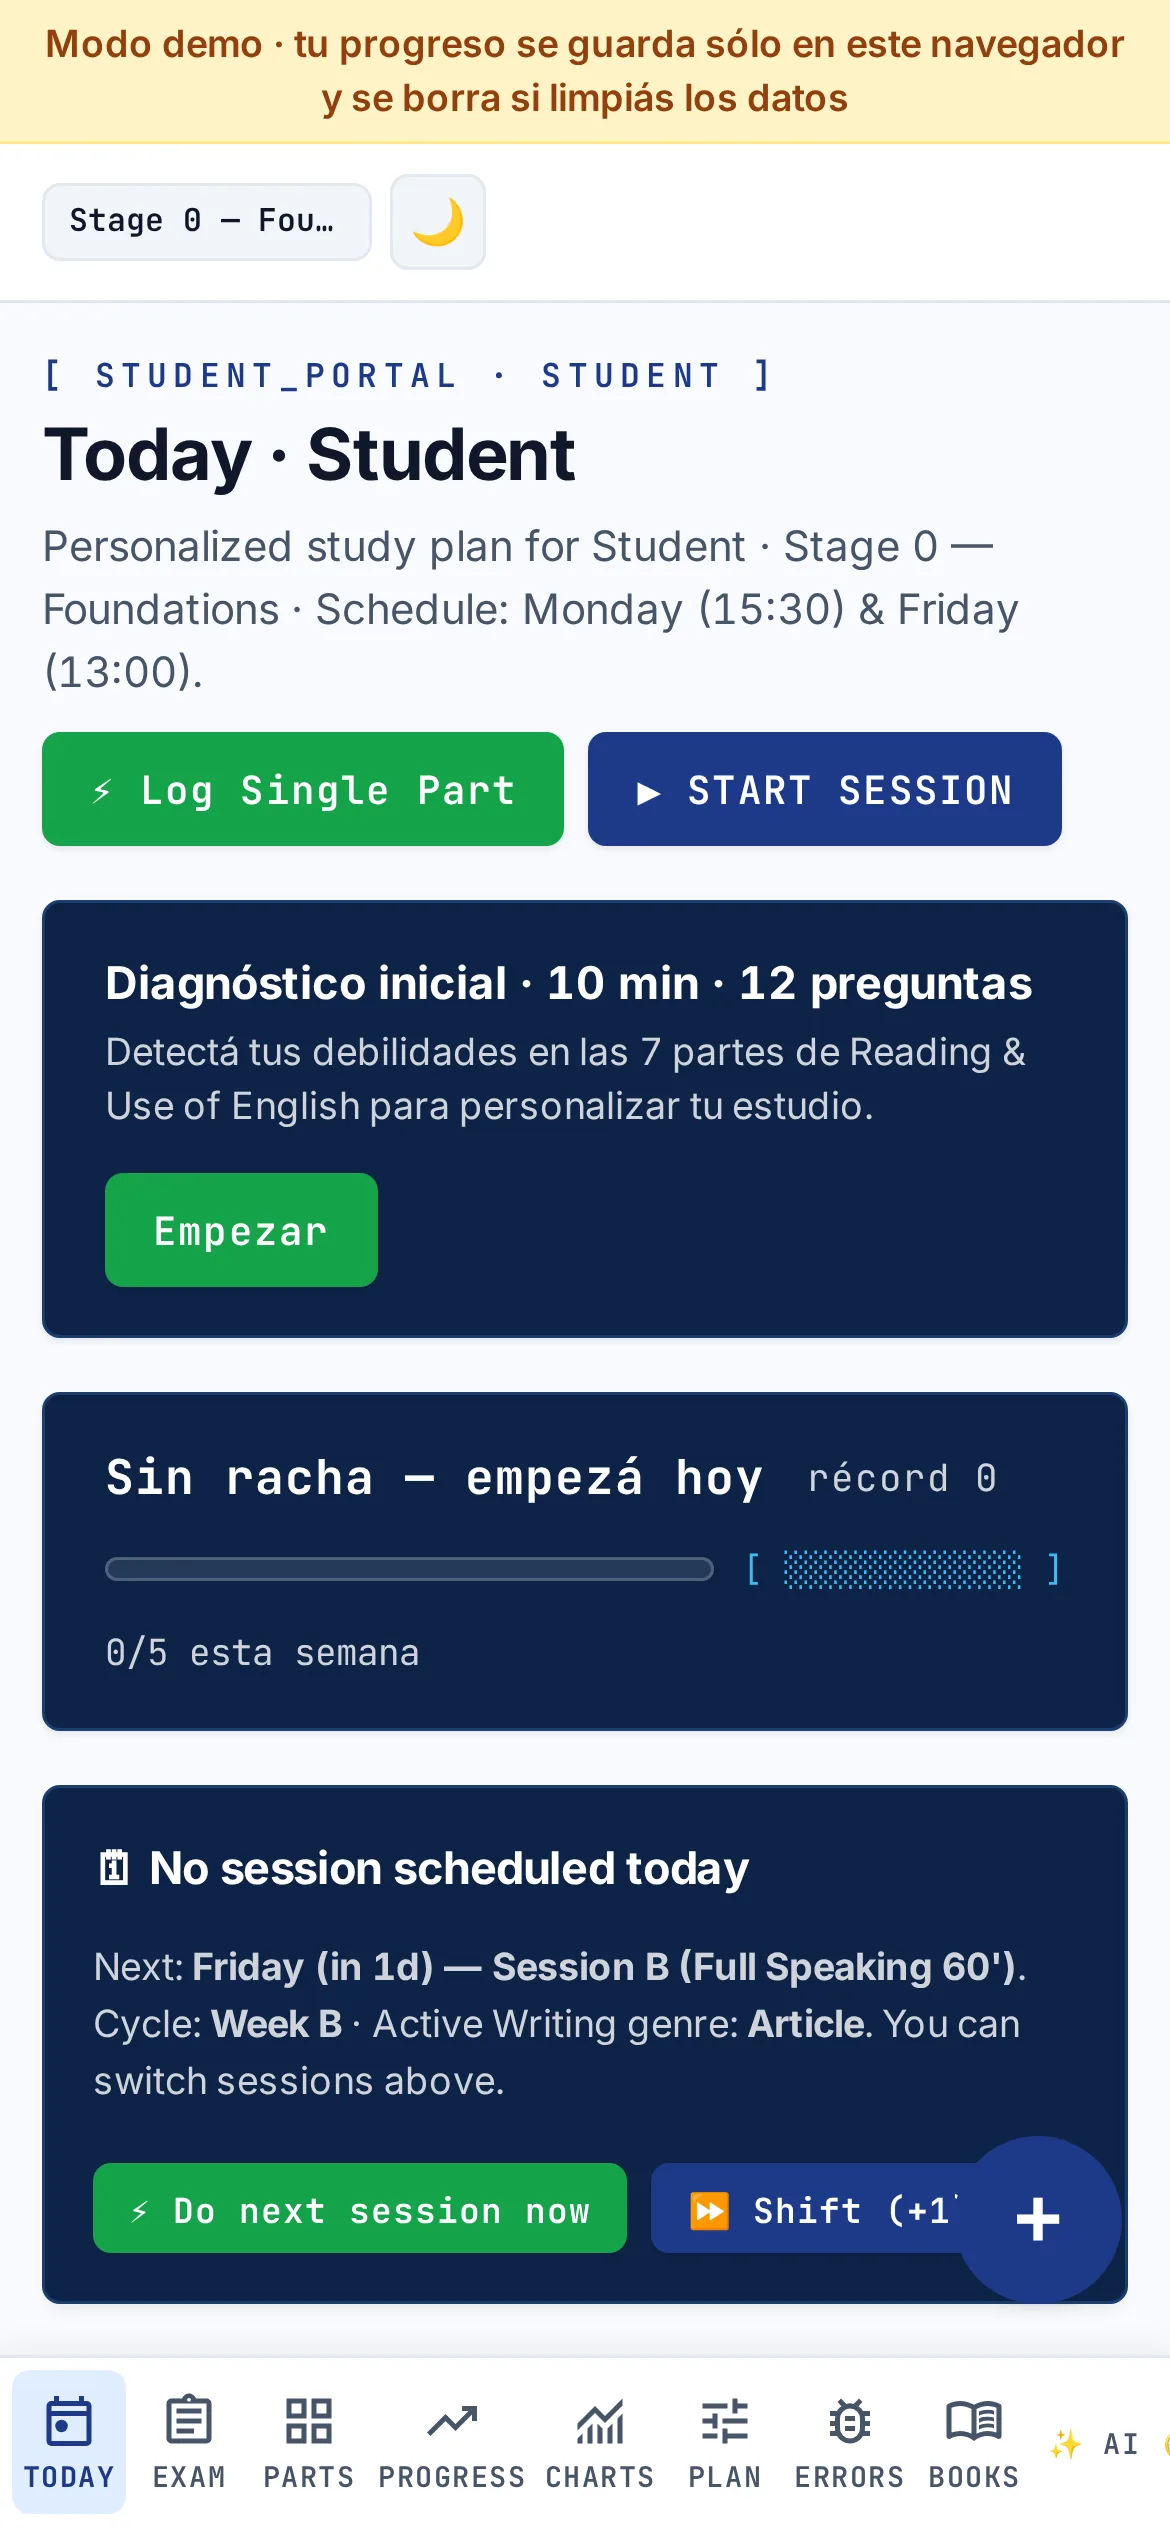
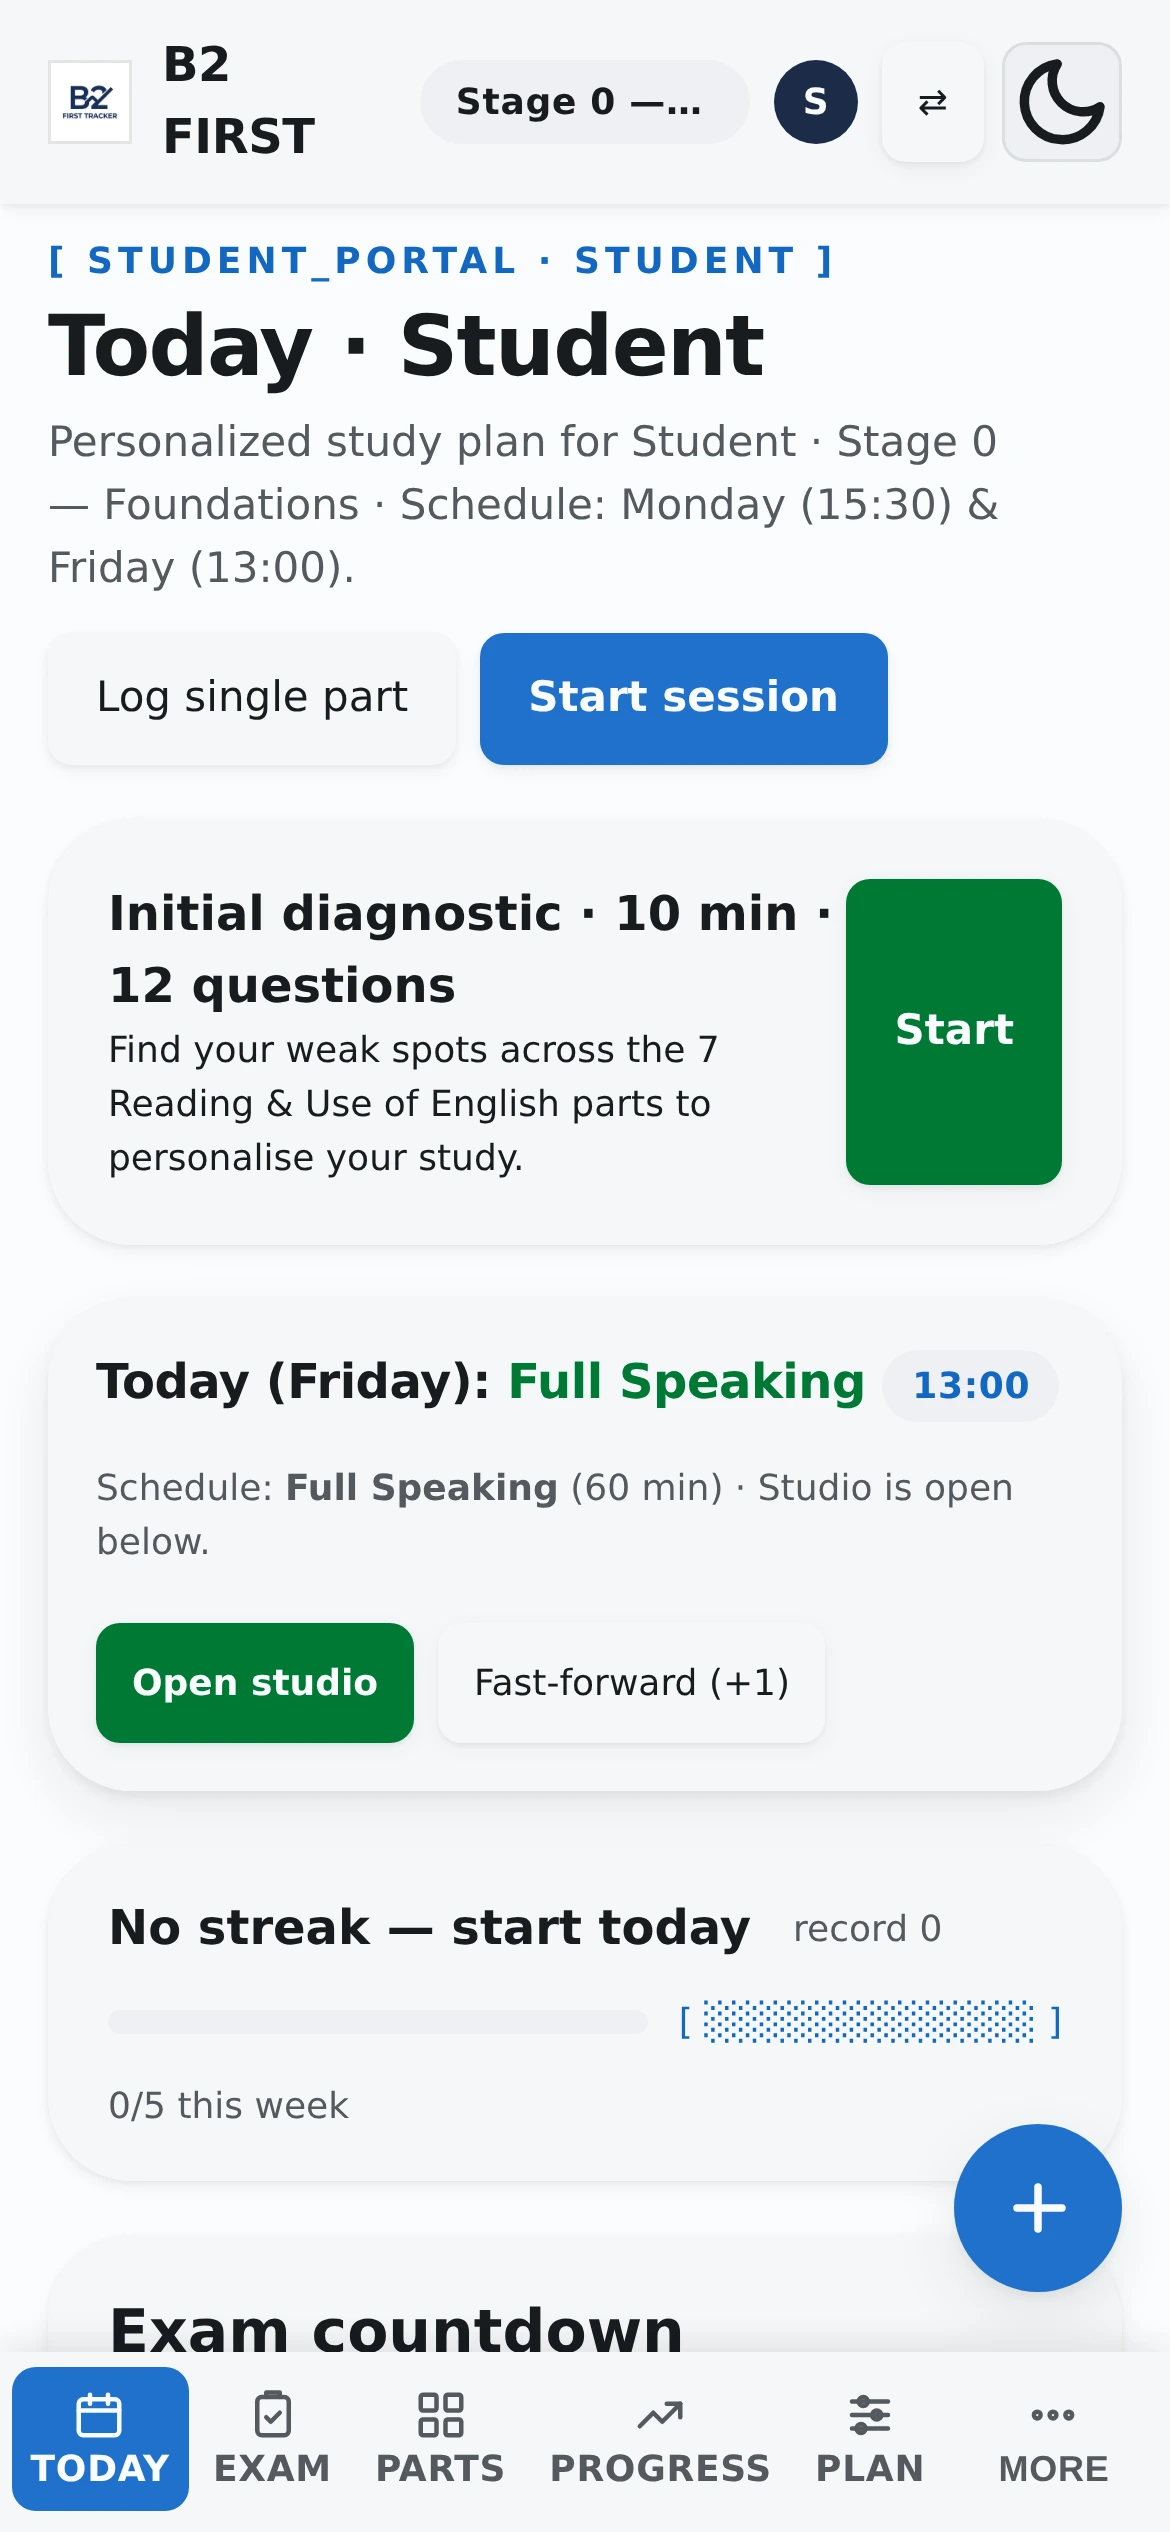
docs: sync all documentation with the current application

diff --git a/README.md b/README.md
@@ -2,8 +2,8 @@
 
 <p align="center">
   A study tracker that closes the feedback gap of preparing for the Cambridge B2 First alone.<br>
-  It logs sessions in three taps, diagnoses which exam parts are weak, plans the week from that<br>
-  diagnosis, and grades Writing against the official Cambridge band descriptors.
+  It logs sessions in three taps, diagnoses which exam parts are weak, plans the week from your<br>
+  intake and that diagnosis, and grades Writing against the official Cambridge band descriptors.
 </p>
 
 <p align="center">
@@ -25,18 +25,19 @@
     <td width="28%"><img src="docs/screenshots/mobile.webp" alt="Mobile layout with the quick-log button"></td>
   </tr>
   <tr>
-    <td align="center"><sub>Desktop: today view, streak and the log of every session</sub></td>
-    <td align="center"><sub>Mobile: same tracker, quick-log in one corner</sub></td>
+    <td align="center"><sub>Desktop: today view, exam countdown, streak and the Week A/B rotation</sub></td>
+    <td align="center"><sub>Mobile: same tracker, quick-log button in one corner</sub></td>
   </tr>
 </table>
 
 ## What it is
 
 A self-hosted study tracker for the **Cambridge B2 First (FCE)** exam. One HTML file, one
-Python file, no database: your progress lives in the browser's `localStorage` and syncs to a
-JSON file on whatever machine serves it. It covers the whole preparation loop — practice log,
-streak, exam-mode timers, per-part analytics, error taxonomy, and an AI writing examiner that
-scores against the official Cambridge assessment scales.
+Python server, no database: progress lives in the browser's `localStorage` and syncs per
+account to JSON files on whatever machine serves it. It covers the whole preparation loop —
+intake interview, profile-driven weekly plan, practice log, streak, exam-mode timers, per-part
+analytics, error taxonomy, and an AI writing examiner that scores against the official
+Cambridge assessment scales.
 
 ## Why it exists
 
@@ -58,23 +59,25 @@ of being a separate field that can drift out of sync.
 - **Anyone who wants their study data to stay theirs**: the app runs on a Raspberry Pi in a
   living room, writes to a plain JSON file, and only sends the text you choose to correct.
 
-It is deliberately not a course. There is no content behind a paywall, no account to create,
-and no cloud to trust.
+It is deliberately not a course. There is no content behind a paywall and no cloud to trust;
+an account is just a name and a password — no email is asked for.
 
 ## What it does
 
 | Feature | What it actually does |
 | --- | --- |
-| **Onboarding intake** | Six questions before the first session: exam date, target grade, self-rated skills, hours per week, available days, what is hard. The answers seed the weekly plan, so the app is useful before you have logged anything |
+| **Onboarding intake** | Six-step intake before the first session: exam date, target grade, self-rated skills, hours per week, available days, and what is hard. The answers seed the weekly plan, so the app is useful before you have logged anything |
 | **Quick-log** | Records type, part, score and minutes in three taps, with sane defaults per part |
 | **Streak** | Derived from the log, not stored: today counts, a missed day is shielded once a week, exam days never break it |
-| **Diagnostic** | 12 original items across all seven exam parts, 10 minutes, produces three ranked weaknesses |
-| **Weekly plan** | Deterministic rules, not a model: three slots on your weakest parts, one Writing, one Listening, adjusted by your error taxonomy |
+| **Diagnostic** | 12 items across the seven Reading & Use of English parts, 10 minutes, ranks the weakest parts and feeds the error taxonomy |
+| **Weekly plan** | Deterministic rules, not a model: slots on your 3 weakest parts (diagnostic) or lowest-rated skills (intake), slot count from hours per week (2h→3, 10+h→6), days from your intake, one reinforcement slot per flagged struggle — each with its reason |
 | **Writing examiner** | Four Cambridge criteria (Content, Communicative Achievement, Organisation, Language), 0–5 each, cited evidence, two mandatory weaknesses per criterion, three rewritten sentences |
 | **Error taxonomy** | Every miss is tagged `L-GAP`, `G-ERR`, `T-MIS` or `T-LIM`, so the plan can target the cause instead of the symptom |
 | **Analytics** | Four SVG panels, no chart library: progress over time, per-part accuracy, error mix, score consistency |
 | **Exam mode** | Real timings for Reading & Use of English, Listening and Writing |
 | **Recent activity** | Your account's security log (logins, password changes, deletion) in the Account view, straight from the server's audit log — only your own events |
+| **Accounts** | Multi-user: register with a name and a password, sync across devices, and export, change password or delete your account |
+| **Interface** | English UI with light and dark themes; the choice is saved per device |
 
 ## The grading is calibrated, not generous
 
@@ -115,6 +118,24 @@ python3 server.py
 
 Open `http://127.0.0.1:8088`. That is the whole installation: no database, no migrations, no
 environment file required.
+
+Every setting is optional and lives in `B2_*` environment variables — the complete list the code
+reads:
+
+| Variable | Default | Effect |
+| --- | --- | --- |
+| `B2_DEMO` | `0` | `1` = demo mode: account and sync routes answer `403`, state stays in `localStorage` |
+| `B2_REGISTER` | `open` | `closed` = no new accounts (existing ones still log in) |
+| `B2_OWNER_PASSWORD` | `b2first` | Password given to the owner account created when migrating old single-user data |
+| `B2_PUBLIC_HEALTH` | `0` | `1` = `GET /api/health` may expose absolute paths |
+| `B2_AI_PROVIDER` | `deepseek` | Provider used by the writing corrector |
+| `B2_AI_BASE` | (empty) | Override the provider base URL |
+| `B2_AI_MODEL` | (empty) | Override the model name |
+| `B2_AI_KEY` | (empty) | Server-side provider key; users can still bring their own |
+| `B2_AI_DAILY_PER_USER` | `8` | AI corrections per account per day on the server key |
+| `B2_AI_DAILY_TOTAL` | `80` | AI corrections per day for the whole instance on the server key |
+| `B2_TEST_USER` | `test-runner` | Account the Playwright suites register (`tests/helpers.py`) |
+| `B2_TEST_PASS` | `test-runner-pass-9` | Password for that account (`tests/helpers.py`) |
 
 Optional exam material can be dropped into `~/Descargas/b2-first/`; the tracker indexes whatever
 it finds and hides the section when the directory is empty.
@@ -176,8 +197,9 @@ B2_DEMO=1 python3 server.py
 ```
 
 In demo mode registration, login and progress sync all return `403`; the tracker runs entirely on
-`localStorage`. This is how the public instance is served: a visitor can use every feature without
-being able to read or write the owner's data.
+`localStorage`. The public instance does not use it: `GET /api/config` reports
+`{"demo": false, "register": "open"}` and visitors create real accounts. Demo mode is for
+installs where nobody should write data at all.
 
 ## Docker
 
@@ -188,23 +210,42 @@ docker run -p 8088:8088 -e B2_DEMO=1 b2first
 
 ## Tests
 
-No mocks of the app itself: the suites drive a real browser against a real server.
+No mocks of the app itself: the suites drive a real browser against a real server. Every suite is
+a standalone script; `tests/helpers.py` registers a throwaway account (`B2_TEST_USER`/
+`B2_TEST_PASS`) so nothing depends on the owner's password.
 
 | Suite | Covers |
 | --- | --- |
-| `test_final.py` | Main UI: all views render, no JS errors |
+| `test_final.py` | Main UI: every view renders, dark mode persists, contrast and focus rings, no JS errors |
+| `test_mobile.py` | 390x844 layout: no horizontal overflow, bottom nav, quick-log button |
+| `test_tracker.py` | Books and material views: cards, filters, links, audio players |
+| `test_onboard.py` | Six-step intake wizard, `D.profile`, profile-driven plan, feature tour, empty states |
+| `test_plan.py` | Deterministic weekly plan (`buildWeeklyPlan`) and its PLAN card |
+| `test_diag.py` | Diagnostic end to end: item fetch, error taxonomy writes, result maths |
+| `test_streak.py` | Streak rules: freeze shield, gaps, future dates, records, weekly goal |
+| `test_schedule_advance.py` | Schedule rows and shifting sessions (`sessionOffset`) |
+| `test_rot.py` | Week A/B rotation, per-skill cycles and manual overrides |
+| `test_exam.py` | Exam-mode timers, pause, guides, exam-mode logging |
+| `test_graf.py` | The four SVG charts and their empty states |
 | `test_sync.py` | Progress persistence, backup rotation, invalid payloads |
-| `test_personalization.py` | Per-user data isolation |
-| `test_ai.py` | The writing proxy: validation, schema rejection, rate limit, no key leakage |
-| `test_diag.py` | Diagnostic flow end to end, error taxonomy writes, result maths |
-| `test_demo.py` | Demo mode returns `403` on every write route |
-| `test_streak.py` | Streak rules: shield, gaps, future dates, records |
-| `test_graf.py`, `test_exam.py`, `test_rot.py` | Analytics, exam mode, rotation |
+| `test_personalization.py` | Per-account data isolation |
+| `test_register.py` | Registration (open and closed), login, password change |
+| `test_multiuser.py` | Accounts end to end: quotas, limits, export and delete |
+| `test_ai.py` | Writing proxy against a mock provider: validation, `422` schema rejection, rate limits, no key leakage |
+| `test_demo.py` | Demo mode returns `403` on every account and sync route |
+| `test_hardening.py` | Id validation, concurrent writes, security headers, request ids, `/api/health`, schema migration, password reset |
+| `test_legacy_guard.py` | The tokenless legacy owner path is unreachable through a proxied request |
+| `test_security2.py` | Login lockout, constant-time compares, hashed tokens, payload schema, audit log |
 
 ```bash
 cd tests
 uv run --with playwright python test_final.py
 ```
+
+Eleven suites (`test_ai`, `test_demo`, `test_diag`, `test_graf`, `test_hardening`,
+`test_legacy_guard`, `test_multiuser`, `test_onboard`, `test_register`, `test_security2`,
+`test_sync`) boot their own server on a temporary `data/` and never touch the real one; the other
+nine run against the live service on `127.0.0.1:8088`.
 
 ## Security
 
@@ -218,17 +259,20 @@ uv run --with playwright python test_final.py
   each account can see its own **Recent activity**.
 - **Backups verified**: per-save rotation plus a daily tarball whose every run does a test
   restore and parses every JSON file before it counts.
+- **Health check**: `GET /api/health` reports the data dir writable, `users.json` parsing and
+  every account directory present (`200 {"ok": true}` / `503`).
 
 Threat model, control checklist and the tested restore runbook: [SECURITY.md](SECURITY.md).
-Reproducible external audit of the live instance: `bash tools/audit.sh`.
+Reproducible external audit of the live instance: `bash tools/audit.sh` — 14/14 checks passed on
+2026-10-30.
 
 ## Data and privacy
 
-- Progress lives in `localStorage` and in `data/progress.json` on your machine, with the previous
-  version kept as a rotated backup.
+- Progress lives in `localStorage` and in `data/users/<id>/progress.json` on your machine, with
+  the previous version kept as a rotated backup.
 - `data/` is gitignored: no personal progress is ever committed.
 - The only outbound call is the text you paste into the corrector, sent with your own key.
-- The public demo cannot write to `data/`; those routes answer `403`.
+- Demo mode cannot write to `data/`; those routes answer `403`.
 
 ## Project layout
 
@@ -239,6 +283,7 @@ store.py            storage seam (swap JSON for SQLite without touching the API)
 prompts.py          Cambridge band descriptors transcribed from the official handbook
 material/           diagnostic items and local exam material index
 tests/              Playwright suites
+tools/              external audit script, password reset, rubric extractor
 docs/               submission notes, video script, screenshots
 ```
 

diff --git a/SECURITY.md b/SECURITY.md
@@ -75,10 +75,9 @@ how to get the data back after a disaster.
 | CORS closed | Implemented | No `Access-Control-Allow-Origin` on any response; `OPTIONS` preflights answer `204` with no `access-control-allow-*` headers |
 | A user cannot read another user's data by id | Implemented | Token↔user binding answers `403` across accounts, `/api/audit` filters to the caller's events, and `/api/users` exposes only the login directory fields (id, name, color, created) — no progress, no credentials |
 
-**Known open finding.** `tools/audit.sh` currently reports one failure: the `Server` response
-banner discloses the runtime (`Server: B2FirstPortal/1.0 Python/3.13.5`). The fix is to stop
-the version from being appended to the banner in `server.py`; it is tracked for the next code
-phase because this one is documentation-only. Everything else in the audit passes (13/14).
+**External audit status.** `bash tools/audit.sh` passes **14/14** checks against the public
+instance as of 2026-10-30. The former open finding (the `Server` banner disclosing the runtime)
+is fixed: the banner is now `Server: B2First` with no version.
 
 ## 4. Backups and restore
 
